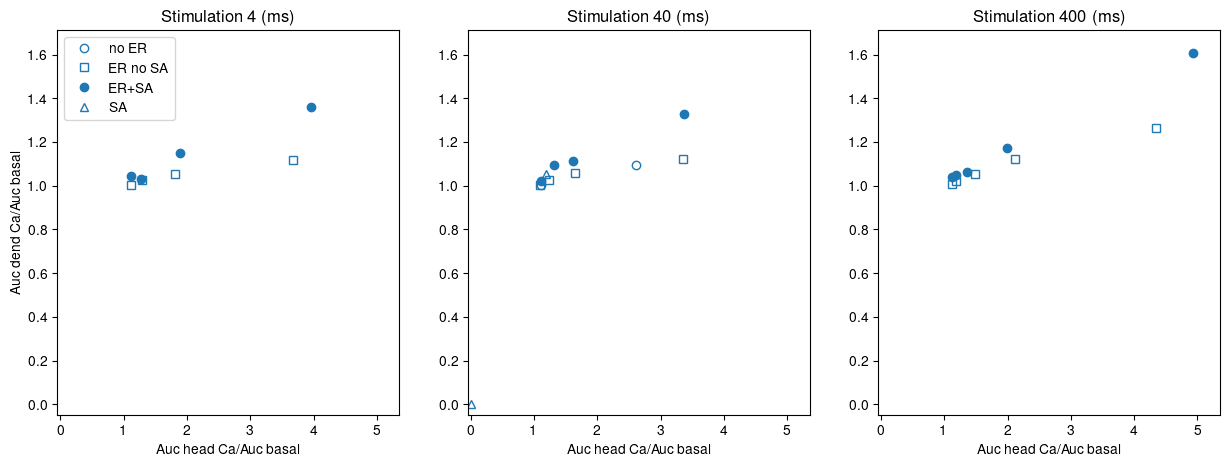
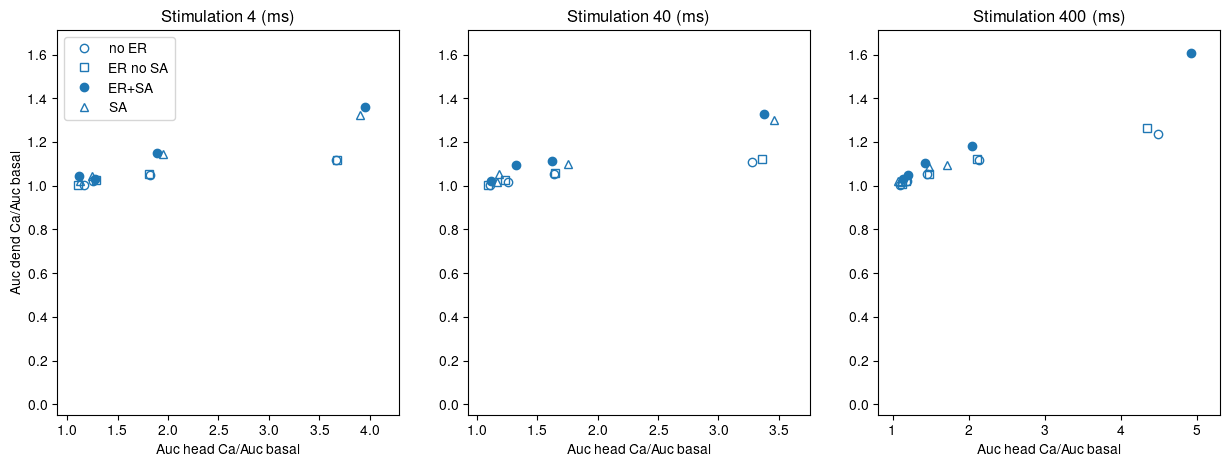
Update of figs

diff --git a/scripts/utility_functions.py b/scripts/utility_functions.py
@@ -598,7 +598,12 @@ def fit_exp(time, ca_conc, dt, duration=2000, t_init=3000, stim_len=3000, spatia
 def make_distance_figs(directories, stim_dict, output, types, markers,
                        fillstyles, length=42, spine_idx=21, t_init=3000,
                        xlabel=r"Auc head/Auc basal",
-                       ylabel=r"Spatial spread ($\unit{\micro\metre}$))", max_ca=False):
+                       ylabel=r"Spatial spread ($\unit{\micro\metre}$))",
+                       max_ca=False, colors={}):
+    if not colors:
+        colors = {}
+        for fname in directories:
+            colors[fname] = "tab:blue"
     if max_ca is True:
         xlabel = r"$\mathrm{max\left(Ca_{head}^{2+}\right)}\, (\unit{\micro\Molar})$"
     fig1, ax1 = plt.subplots(1, len(stim_dict.keys()),
@@ -606,9 +611,6 @@ def make_distance_figs(directories, stim_dict, output, types, markers,
     fig2, ax2 = plt.subplots(1, len(stim_dict.keys()),
                               figsize=(len(stim_dict.keys())*5, 5))
     for k, dur in enumerate(stim_dict.keys()):
-        
-        
-        
         for i, fname in  enumerate(directories):
             auc_head_m = []
             auc_head_e = []
@@ -648,9 +650,10 @@ def make_distance_figs(directories, stim_dict, output, types, markers,
                             fillstyle=fillstyles[i], color="tab:blue",
                             linewidth=0)
             print(auc_head_m, spread_m, spread_e)
-            ax1[k].errorbar(auc_head_m, spread_m, yerr=spread_e, ecolor="tab:blue",
+            ax1[k].errorbar(auc_head_m, spread_m, yerr=spread_e,
+                            ecolor=colors[fname],
                             label=types[i], marker=markers[i],
-                            fillstyle=fillstyles[i], color="tab:blue",
+                            fillstyle=fillstyles[i], color=colors[fname],
                             linewidth=0, elinewidth=1)
         ax1[k].set_title("Stimulation %s (ms)"% dur)      
         ax2[k].set_title("Stimulation %s (ms)"% dur)      
@@ -661,7 +664,7 @@ def make_distance_figs(directories, stim_dict, output, types, markers,
 
     pretty_axis(ax1)
     pretty_axis(ax2)
-    ax1[0].legend()
+    ax1[1].legend()
     ax2[0].legend()
     return fig1
 

diff --git a/scripts/spatial_spread_Ltype_IP3.py b/scripts/spatial_spread_Ltype_IP3.py
@@ -53,11 +53,18 @@ region_list = ["dend01", "dend02", "dend03", "dend04", "dend05", "dend06", "dend
                "dend21"]
 spine_idx = 21
 if __name__ == '__main__':
-    rollo = True
+    rollo = False
+    colors = {file_dend_ER_ctrl: "tab:blue",
+              file_dend_ER_Ltype: "tab:green",
+              file_dend_ER_Ltype_IP3: "tab:purple",
+              file_spine_ER_dend_ER: "tab:blue",
+              file_spine_ER_dend_ER_Ltype: "tab:green",
+              file_spine_ER_dend_ER_Ltype_IP3: "tab:purple"
+    }
     dirs = [file_dend_ER_ctrl,file_dend_ER_Ltype, file_dend_ER_Ltype_IP3,
             file_spine_ER_dend_ER, file_spine_ER_dend_ER_Ltype, file_spine_ER_dend_ER_Ltype_IP3]
     fig = utils.make_distance_figs(dirs, stim_dict, output, types, markers,
-                                   fillstyles, length=42, spine_idx=21, t_init=t_init, max_ca=True)
+                                   fillstyles, length=42, spine_idx=21, t_init=t_init, max_ca=True, colors=colors)
     fig.savefig("Spatial_spread_Ltype_IP3_%s.png" % rollo, dpi=100, bbox_inches="tight")
         
     

diff --git a/scripts/spatial_spread_ER_no_ER_old_age.py b/scripts/spatial_spread_ER_no_ER_old_age.py
@@ -41,7 +41,7 @@ region_list = ["dend01", "dend02", "dend03", "dend04", "dend05", "dend06", "dend
                "dend21"]
 spine_idx = 21
 if __name__ == '__main__':
-    rollo = True
+    rollo = False
     dirs = [file_dend_ER_ctrl, file_dend_ER_oa, file_spine_ER_dend_ER, file_spine_ER_dend_ER_oa] 
     fig = utils.make_distance_figs(dirs, stim_dict, output, types, markers,
                                    fillstyles, length=42, spine_idx=21, t_init=t_init, max_ca=True)

diff --git a/scripts/spatial_spread_ER_no_ER.py b/scripts/spatial_spread_ER_no_ER.py
@@ -38,7 +38,7 @@ region_list = ["dend01", "dend02", "dend03", "dend04", "dend05", "dend06", "dend
                "dend21"]
 spine_idx = 21
 if __name__ == '__main__':
-    rollo = True
+    rollo = False
     dirs = [file_no_ER_ctrl, file_dend_ER_ctrl, file_spine_ER_dend_ER, file_spine_ER_no_dend_ER]
     fig = utils.make_distance_figs(dirs, stim_dict, output, types, markers,
                                    fillstyles, length=42, spine_idx=21, t_init=t_init, max_ca=True)

diff --git a/scripts/spatial_spread_Ltype.py b/scripts/spatial_spread_Ltype.py
@@ -37,7 +37,7 @@ region_list = ["dend01", "dend02", "dend03", "dend04", "dend05", "dend06", "dend
                "dend21"]
 spine_idx = 21
 if __name__ == '__main__':
-    rollo = True
+    rollo = False
     dirs = [file_dend_ER_ctrl,file_dend_ER_dend_Ca, file_spine_ER_dend_ER,
             file_spine_ER_dend_ER_dend_Ca]#, file_no_ER_Ltype]
     fig = utils.make_distance_figs(dirs, stim_dict, output, types, markers,

diff --git a/scripts/spatial_spread_Ltype_old_age.py b/scripts/spatial_spread_Ltype_old_age.py
@@ -44,7 +44,7 @@ region_list = ["dend01", "dend02", "dend03", "dend04", "dend05", "dend06", "dend
                "dend21"]
 spine_idx = 21
 if __name__ == '__main__':
-    rollo = True
+    rollo = False
     dirs = [
         file_dend_ER_dend_Ca, file_dend_ER_dend_Ca_old_age,
         file_spine_ER_dend_ER_dend_Ca,
